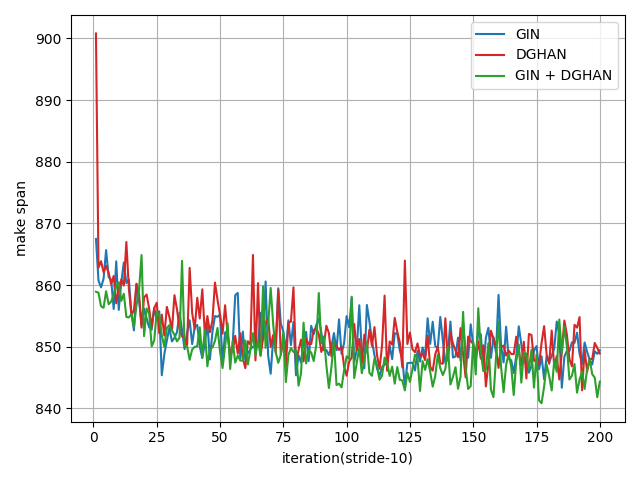
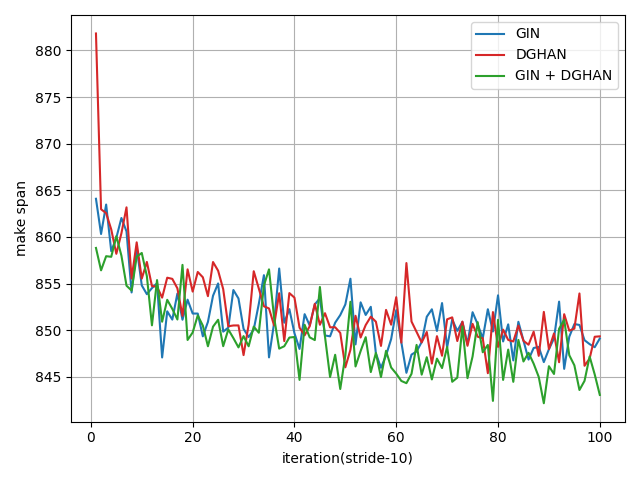
update_plt_code

diff --git a/curves/plot_gin_dghan_gin+dghan.py b/curves/plot_gin_dghan_gin+dghan.py
@@ -36,7 +36,7 @@ show = True
 save = False
 log_type = 'validation'  # 'training', 'validation'
 plot_step_size_training = (episodes // batch_size) // total_plt_steps
-plot_step_size_validation = 1
+plot_step_size_validation = (episodes // batch_size) // (total_plt_steps * 5)
 save_file_type = '.png'
 
 
@@ -111,7 +111,8 @@ if log_type == 'training':
     plt.plot(x, obj3, color='tab:green', label='GIN + DGHAN')
     plt.tight_layout()
     plt.legend()
-    plt.savefig('./{}{}'.format('merged_training_log', save_file_type))
+    if save:
+        plt.savefig('./{}{}'.format('merged_training_log', save_file_type))
     plt.show()
 
 else:
@@ -128,7 +129,8 @@ else:
     plt.plot(x, obj_incumbent3, color='tab:green', label='GIN + DGHAN')
     plt.tight_layout()
     plt.legend()
-    plt.savefig('./{}{}'.format('merged_incumbent_validation_log', save_file_type))
+    if save:
+        plt.savefig('./{}{}'.format('merged_incumbent_validation_log', save_file_type))
     plt.show()
 
     obj_last_step1 = log1[:log1.shape[0] // plot_step_size_validation * plot_step_size_validation, 1].reshape(log1.shape[0] // plot_step_size_validation, -1).mean(axis=1)
@@ -144,7 +146,8 @@ else:
     plt.plot(x, obj_last_step3, color='tab:green', label='GIN + DGHAN')
     plt.tight_layout()
     plt.legend()
-    plt.savefig('./{}{}'.format('merged_last-step_validation_log', save_file_type))
+    if save:
+        plt.savefig('./{}{}'.format('merged_last-step_validation_log', save_file_type))
     plt.show()
 
 

diff --git a/curves/plot.py b/curves/plot.py
@@ -28,12 +28,12 @@ episodes = 256000
 step_validation = 10
 
 # plot parameters
-total_plt_steps = 200
+total_plt_steps = 100
 show = True
 save = False
 log_type = 'training'  # 'training', 'validation'
 plot_step_size_training = (episodes // batch_size) // total_plt_steps
-plot_step_size_validation = 1
+plot_step_size_validation = (episodes // batch_size) // (total_plt_steps * 10)
 save_file_type = '.png'
 
 
